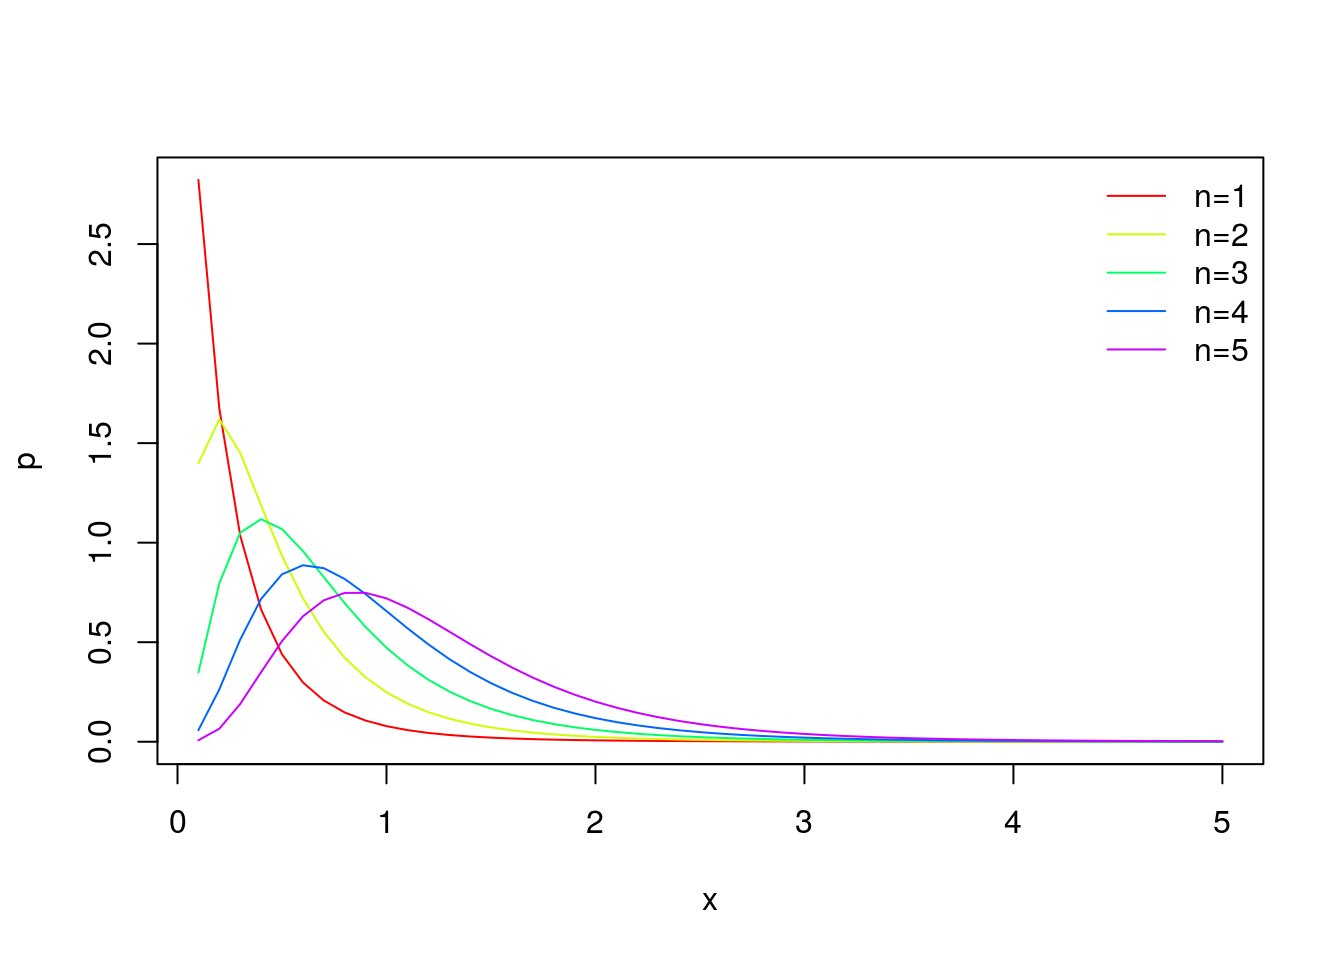
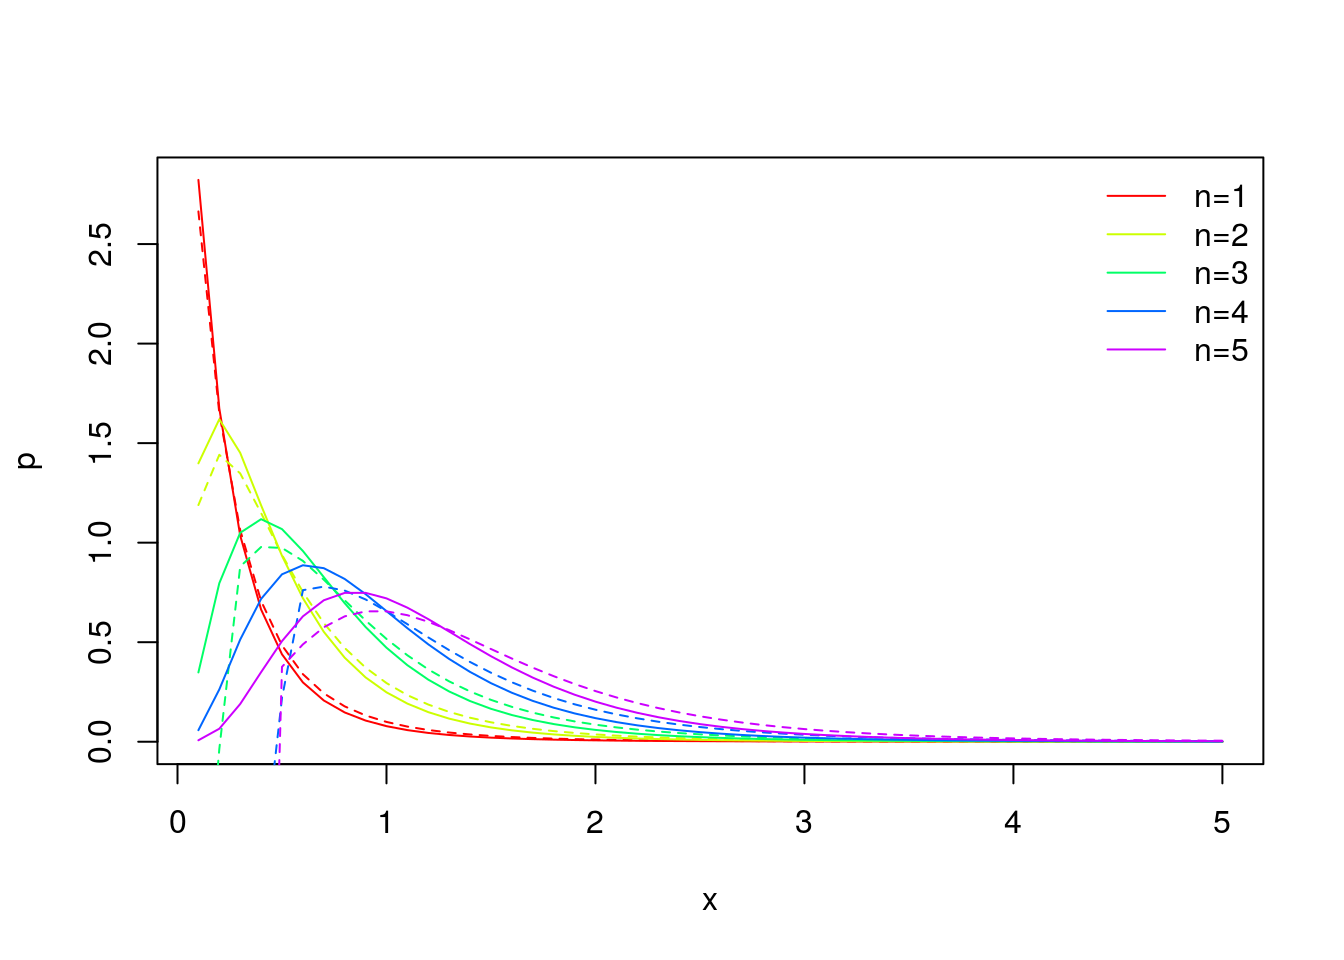
update README

Changed region(s): [[0.375, 0.7188, 0.6562, 0.7812], [0.2188, 0.5938, 0.2812, 0.6562], [0.1562, 0.4688, 0.1875, 0.5]]

diff --git a/README.md b/README.md
@@ -34,15 +34,19 @@ Note that `x` can be a vector, while both `a` and `n` must single-valued.
 
 ### Example
 
-Reproduction of Ramsay's (2006) Figure 2 of probability density functions for the first 5 convolutions of the Pareto pdf with shape parameter of *a=5*.
+Solid lines in this panel are a reproduction of Ramsay's (2006) Figure 2 of probability density functions for the first 5 convolutions of the Pareto pdf with shape parameter of *a=5*. Dashed lines are analogous values for the non-integer value of *a=4.5*.
 
 ``` r
 x <- 1:50 / 10
 n <- 1:5
-y <- lapply (n, function (i) paretoconv (x=x, a=5, n=i))
-cols <- rainbow (length (y))
-plot (NULL, NULL, xlim=range (x), ylim=range (y), xlab="x", ylab="p")
-for (i in n) lines (x, y[[i]], col=cols [i])
+yint <- lapply (n, function (i) paretoconv (x=x, a=5, n=i))
+ynon <- lapply (n, function (i) paretoconv (x=x, a=4.5, n=i))
+cols <- rainbow (length (n))
+plot (NULL, NULL, xlim=range (x), ylim=range (yint), xlab="x", ylab="p")
+for (i in n) {
+    lines (x, yint [[i]], col=cols [i])
+    lines (x, ynon [[i]], col=cols [i], lty=2)
+}
 legend ("topright", lwd=1, col=cols, bty="n", 
         legend=sapply (seq (n), function (i) paste0 ("n=", i)))
 ```
